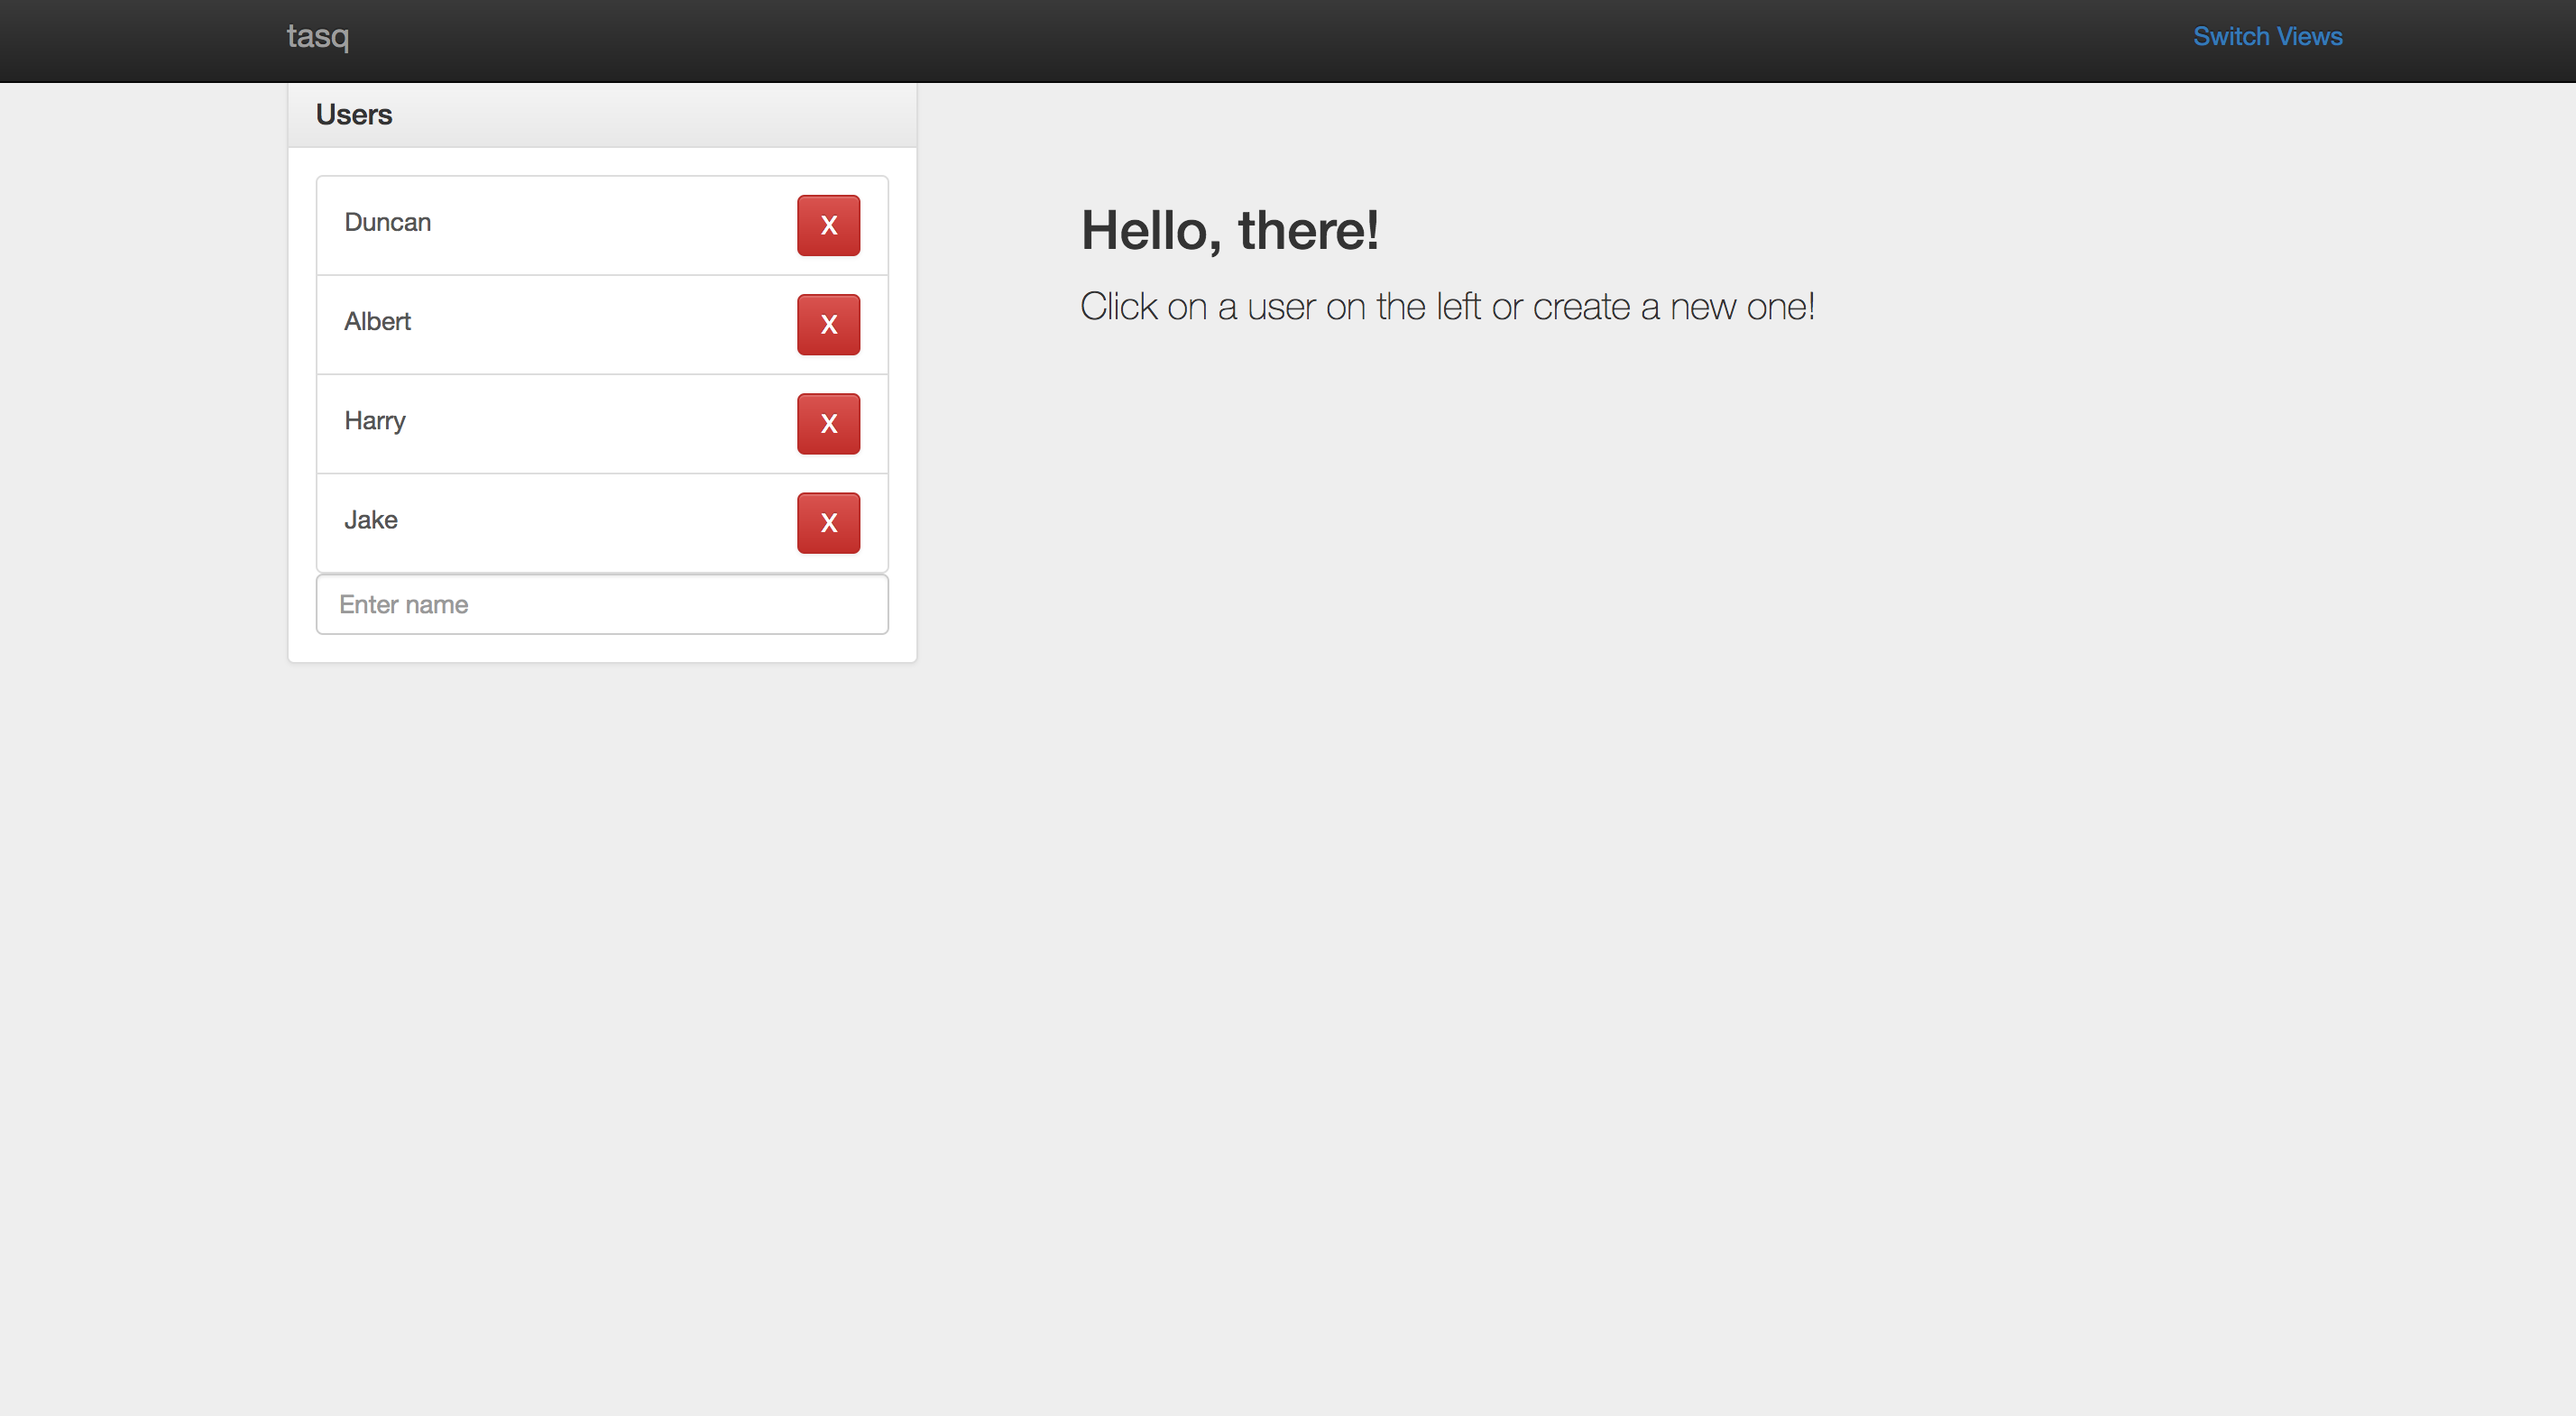
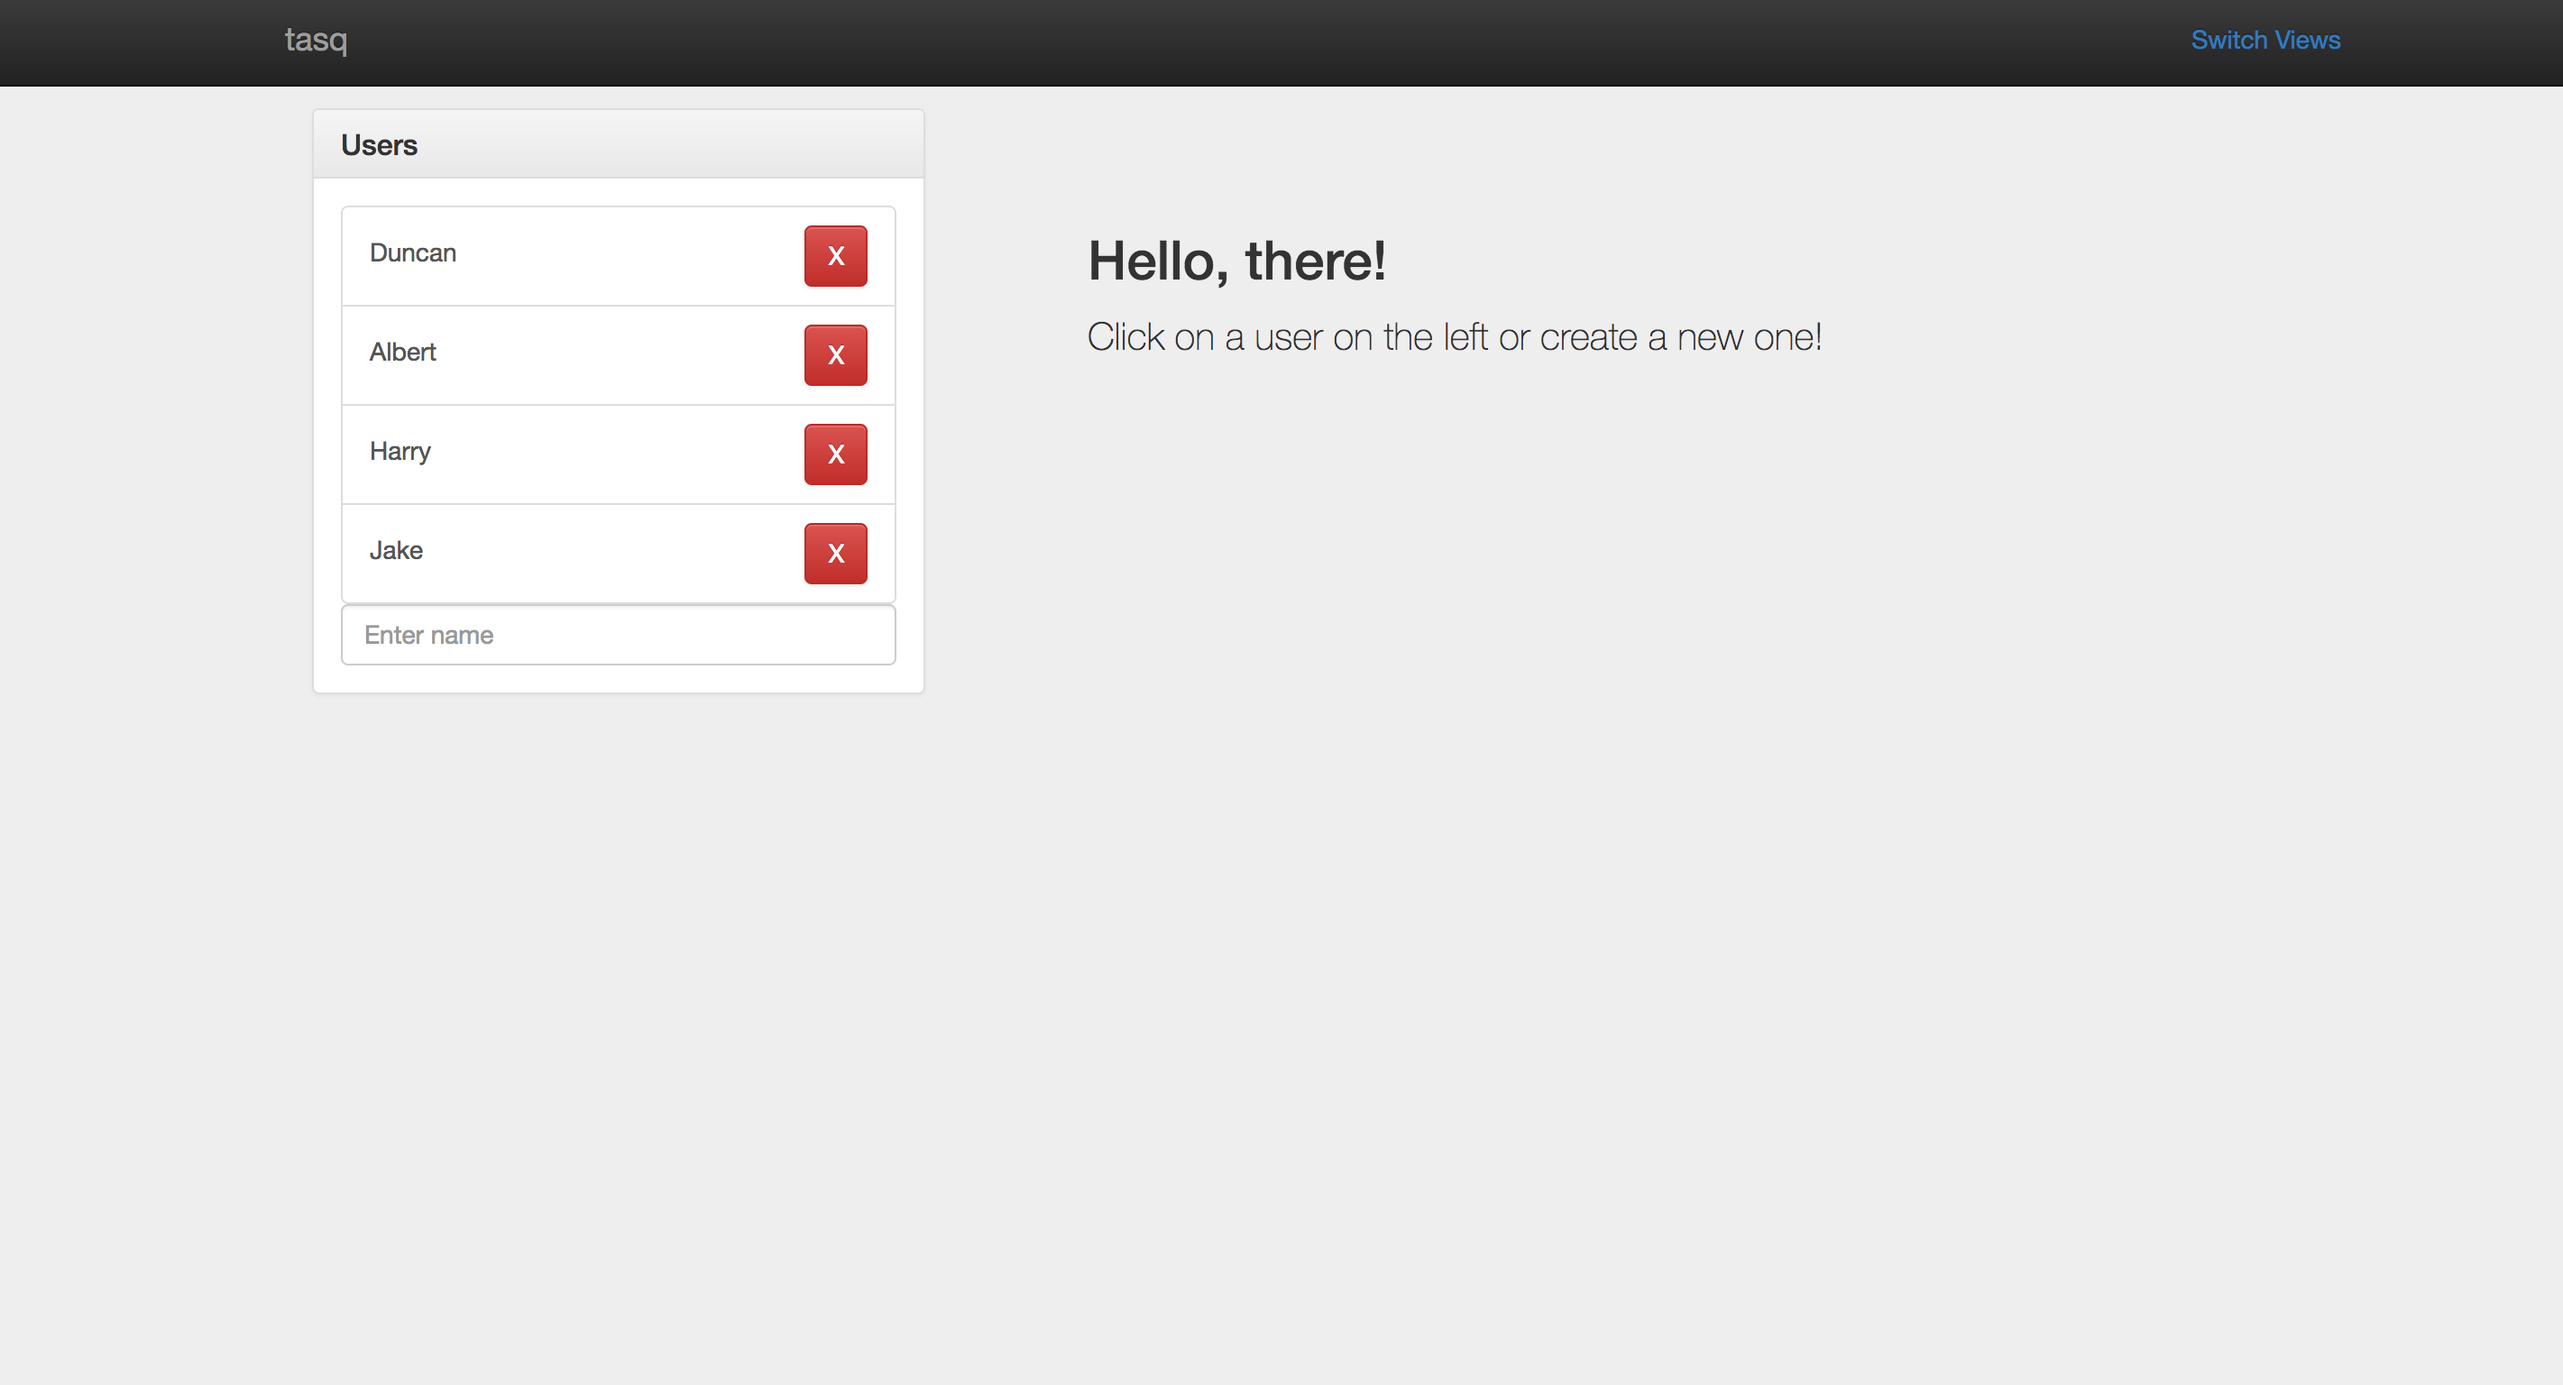
added top padding onto the task and users list panels

diff --git a/client/src/App.js b/client/src/App.js
@@ -2,9 +2,10 @@ import React, { Component } from 'react';
 import axios from 'axios';
 import { Jumbotron, Grid, Row, Col } from 'react-bootstrap';
 import orderBy from 'lodash/orderBy';
-import NavBar from './components/NavBar'
-import UserList from './components/UserList'
-import TaskList from './components/TaskList'
+import './styles/app.css';
+import NavBar from './components/NavBar';
+import UserList from './components/UserList';
+import TaskList from './components/TaskList';
 
 class App extends Component {
   constructor(props){
@@ -94,26 +95,28 @@ class App extends Component {
         <NavBar link="/tableview" />
         <Jumbotron>
           <div className="container">
-            <Grid>
-              <Row className="show-grid">
-                <Col xs={6} md={4}>
-                  <UserList
-                    userData={this.state.users}
-                    taskUserId={this.state.taskUserId}
-                    getTasks={this.getTasks}
-                    postUser={this.postUser}
-                    deleteUser={this.deleteUser} />
-                </Col>
-                <Col xs={12} md={8}>
-                  <TaskList
-                    taskData={this.state.tasks}
-                    taskUserId={this.state.taskUserId}
-                    postTask={this.postTask}
-                    completeTask={this.completeTask}
-                    deleteTask={this.deleteTask} />
-                </Col>
-              </Row>
-            </Grid>
+            <div className="list-holder">
+              <Grid>
+                <Row className="show-grid">
+                  <Col xs={6} md={4}>
+                    <UserList
+                      userData={this.state.users}
+                      taskUserId={this.state.taskUserId}
+                      getTasks={this.getTasks}
+                      postUser={this.postUser}
+                      deleteUser={this.deleteUser} />
+                  </Col>
+                  <Col xs={12} md={8}>
+                    <TaskList
+                      taskData={this.state.tasks}
+                      taskUserId={this.state.taskUserId}
+                      postTask={this.postTask}
+                      completeTask={this.completeTask}
+                      deleteTask={this.deleteTask} />
+                  </Col>
+                </Row>
+              </Grid>
+            </div>
           </div>
         </Jumbotron>
       </div>

diff --git a/client/src/styles/app.css b/client/src/styles/app.css
@@ -1,0 +1,3 @@
+.list-holder{
+  padding: 15px
+}
